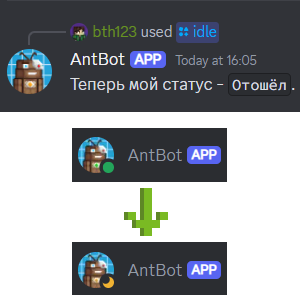
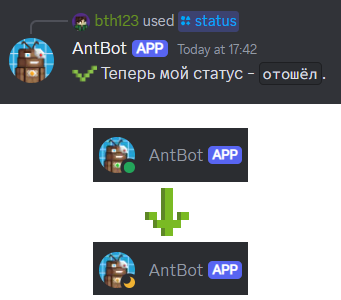
⚫Updated /status w

diff --git a/wiki/commands.md b/wiki/commands.md
@@ -3,13 +3,12 @@
 
 # Админские
 
-## Команды меняющие статус
-> Меняют статус, также изменяют аватарку антбота в соответствии с установленным статусом
+## status
+> Меняет статус, также изменяет аватарку антбота в соответствии с установленным статусом
 > ### Использование
-> /{статус}
+> /status {статус}
 > ### Примиер
-> - /idle
-> - /dnd
+> - /status dnd
 > 
 > ![statusass](statuses.png)
 
